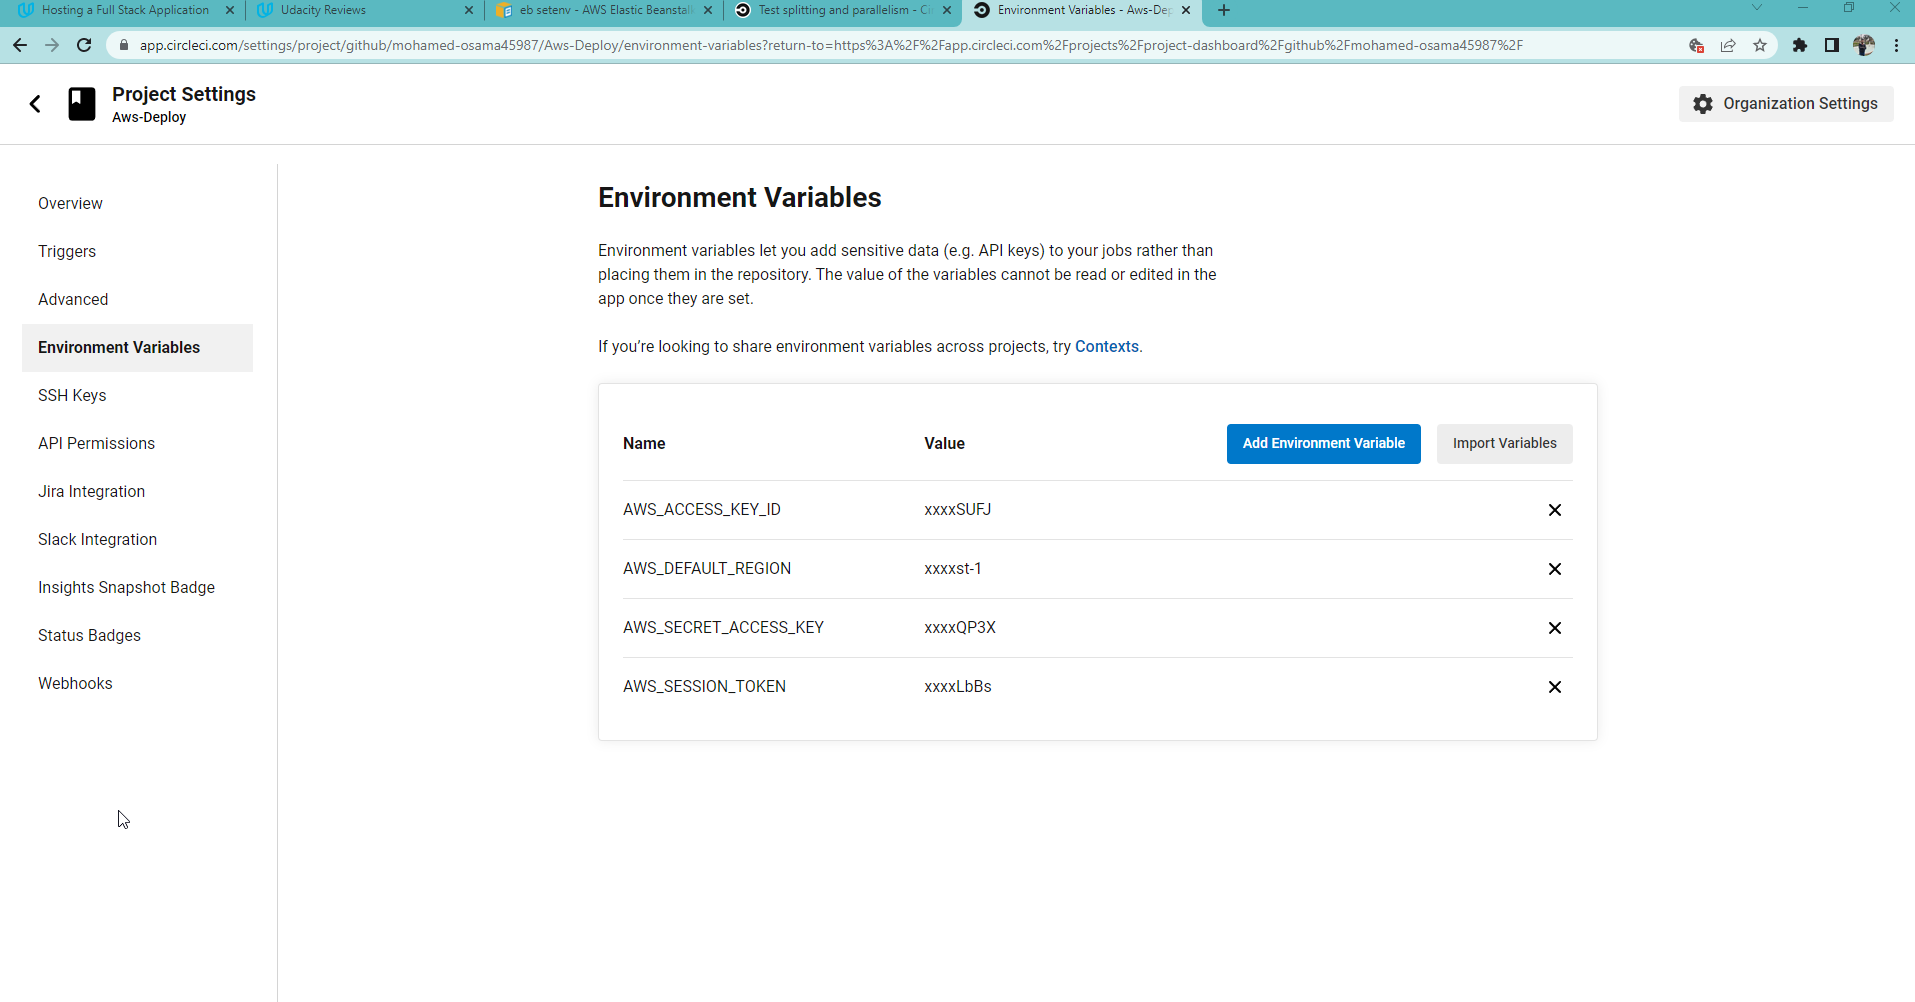
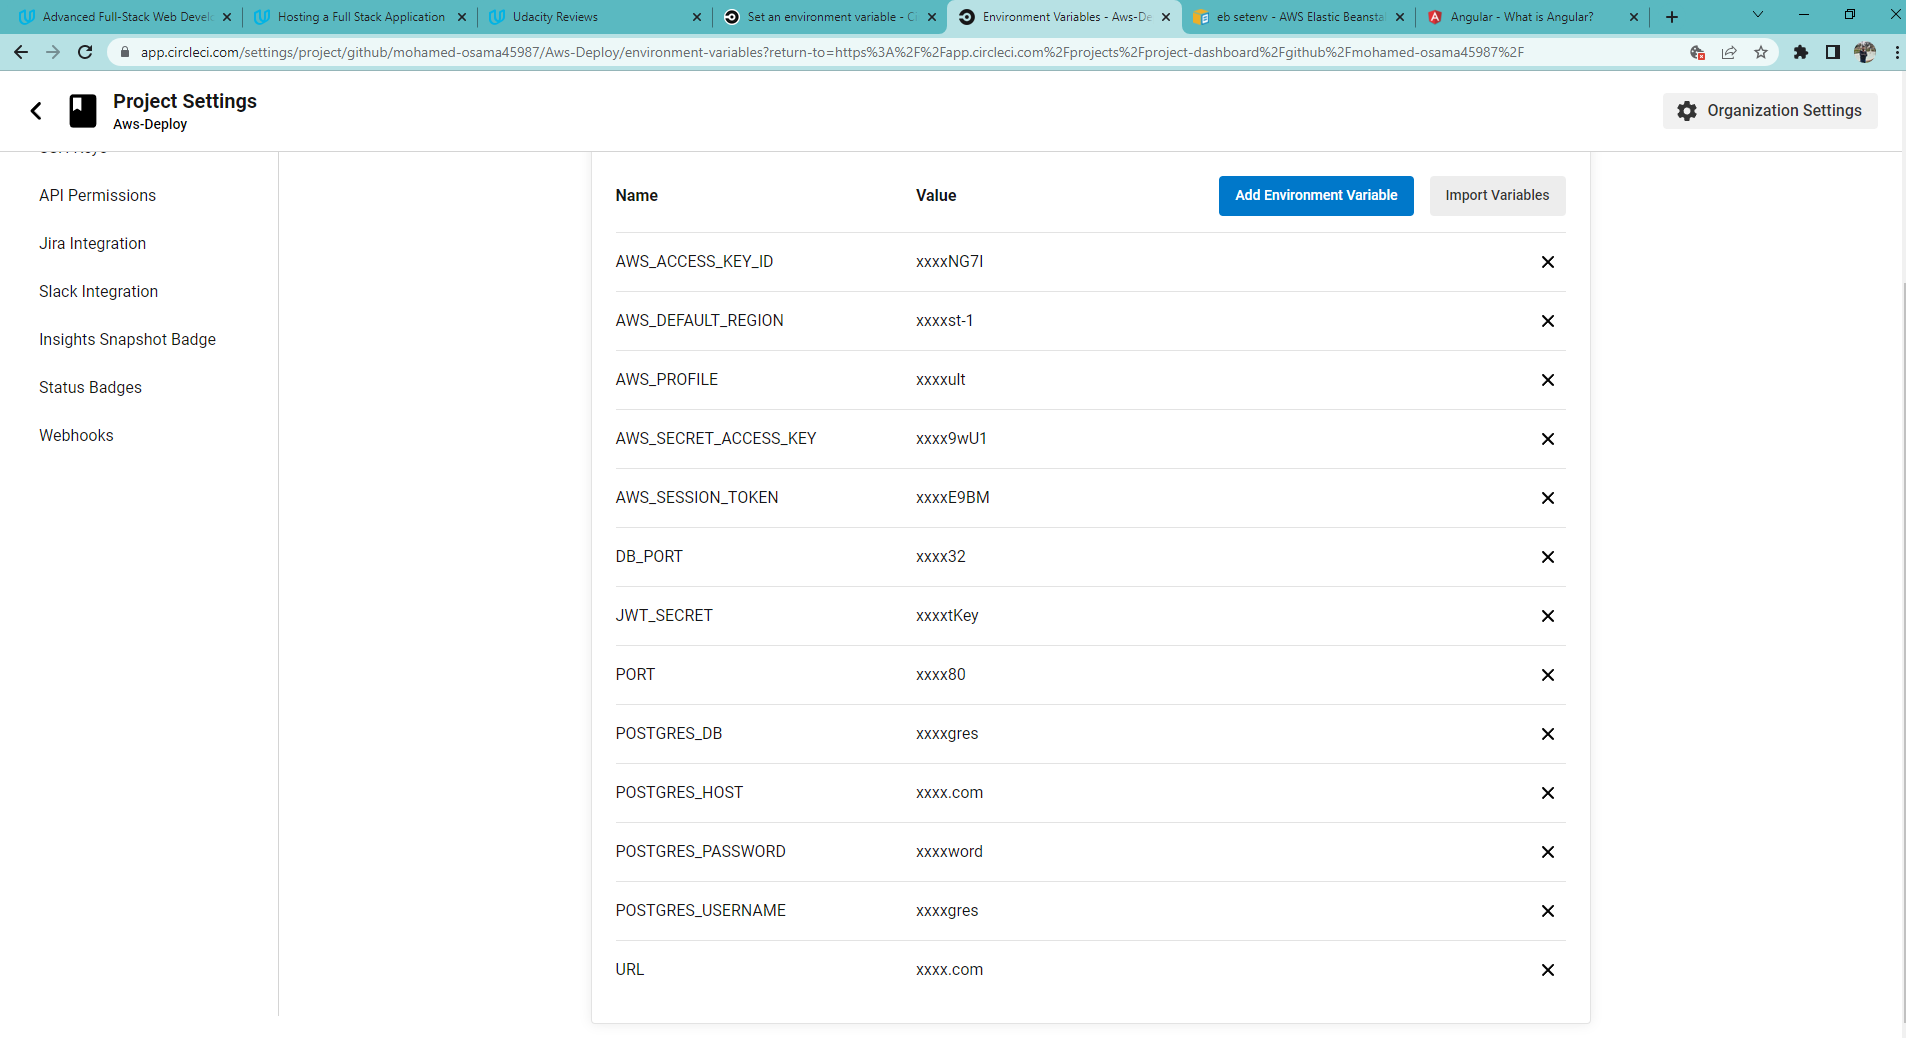
Changing the circleci config file

diff --git a/DOCS/All Docs/Infrastructure.md b/DOCS/All Docs/Infrastructure.md
@@ -1,0 +1,37 @@
+## Development process 
+
+After we've completed our development, we commit the code to our git repo in order to track changes of project code and we use the circleci with track commits on the repo to start the pipeline process. 
+
+&nbsp;
+
+## CI/CD pipeline process
+
+The steps of the pipeline contains the following :-
+
+-  Instructions to setup the orbs ( Node Enviroment and AwsCli ) inside the circleci servers
+
+- Instructions to install project dependancies on the circleci servers
+
+- Instructions to test and build the project on the circleci servers
+
+- Instructions to pass enviroment variables to our Elasticbean instance 
+
+- Instructions to deploy our app from circleci servers to aws cloud
+
+&nbsp;
+
+Please refere to this file for the detailed instructions ( .circleci/config.yml  )
+
+&nbsp;
+
+## Deployment 
+
+Different parts of the app are deployed to diffrent aws services by the following sequence
+
+1. deploying the font-end angular app to the S3 bucket
+
+1. deploying the nodejs app to ELasticBeans instance
+
+&nbsp;
+
+Please refer to the diagram of the project ourline is found in ( DOCS\Diagrams\Diagram as png.png ) file. this diagram help to give a greate understanding of the full infrastructure for the project 

diff --git a/DOCS/All Docs/App-dependencies.md b/DOCS/All Docs/App-dependencies.md
@@ -1,0 +1,14 @@
+## Project Infrastructure
+
+This is a fullstack project hosted on Aws cloud and has a ci/cd pipline 
+
+Our project uses the following AWS services to be hosted:-
+
+1. Simple Storage Service (S3) bucket for the front-end
+1. Elasticbeans (EB) service for hosting our node app back-end
+1. Relational Database service (RDS) service for postger database
+
+
+&nbsp;
+
+The complete diagram to the project ourline is found in ( DOCS\Diagrams\Diagram as png.png ) file. this diagram help to give a greate understanding of the full infrastructure for the project 

diff --git a/DOCS/All Docs/Project-dependencies.md b/DOCS/All Docs/Project-dependencies.md
@@ -1,0 +1,9 @@
+## Project Main dependencies
+
+1. Angular for the Frontend.
+2. Nodejs for the Backend.
+3. PostgressSQL Database.
+
+&nbsp;
+
+There is alot of other dependeces listed inside the package.json files inside the project
